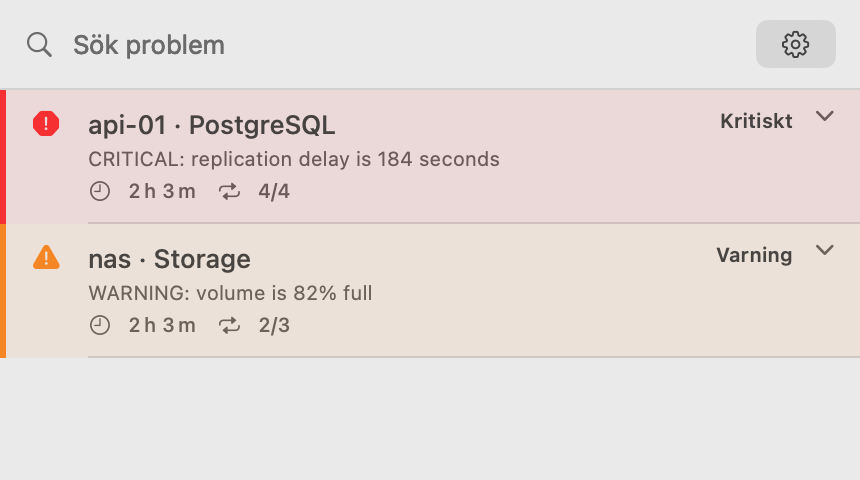
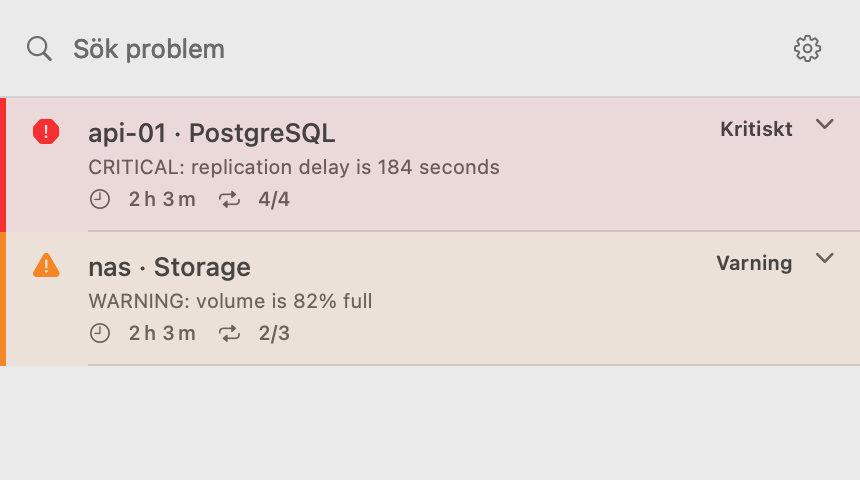
fix: repair native settings experience

diff --git a/IssueLight/Sources/LanguageSettingsView.swift b/IssueLight/Sources/LanguageSettingsView.swift
@@ -55,8 +55,8 @@ struct IssueLightSettingsView: View {
                 }
                 .tag(Tab.about)
         }
-        .padding(20)
-        .frame(width: 920, height: 680)
+        .padding(16)
+        .frame(width: 820, height: 600)
     }
 }
 
@@ -108,12 +108,19 @@ struct LanguageSettingsView: View {
 }
 
 struct AboutSettingsView: View {
+    private static let messages: [LocalizedStringResource] = [
+        "Alerts multiply. Attention does not.\nIssueLight sorts the signal before it reaches you.\nA star helps. Coffee keeps the beacon lit.",
+        "Green is a temporary agreement between distributed systems.\nIssueLight watches the fine print.\nStar it if it saved a minute. Fuel it if it saved the night.",
+        "The quiet menu bar is not doing nothing.\nIt is waiting for evidence.\nStar the repository if that restraint feels useful.",
+        "Monitoring should interrupt you only when it has something useful to say.\nIssueLight keeps the noise down and the problems visible.\nCoffee is optional. Reliable alerts are not.",
+    ]
+
     @Environment(\.locale) private var locale
     let icon: NSImage
     let version: String
     let build: String
     let copyrightText: String
-    private let messageKey: LocalizedStringResource
+    @State private var messageIndex: Int
 
     private let repositoryURL = URL(string: "https://github.com/YunaBraska/issuelight")!
     private let releasesURL = URL(string: "https://github.com/YunaBraska/issuelight/releases")!
@@ -138,69 +145,60 @@ struct AboutSettingsView: View {
         self.copyrightText = copyrightText
             ?? Bundle.main.object(forInfoDictionaryKey: "NSHumanReadableCopyright") as? String
             ?? "Copyright © 2026 Yuna Morgenstern and IssueLight contributors."
-        let messages: [LocalizedStringResource] = [
-            "Alerts multiply. Attention does not.\nIssueLight sorts the signal before it reaches you.\nA star helps. Coffee keeps the beacon lit.",
-            "Green is a temporary agreement between distributed systems.\nIssueLight watches the fine print.\nStar it if it saved a minute. Fuel it if it saved the night.",
-            "The quiet menu bar is not doing nothing.\nIt is waiting for evidence.\nStar the repository if that restraint feels useful.",
-            "Monitoring should interrupt you only when it has something useful to say.\nIssueLight keeps the noise down and the problems visible.\nCoffee is optional. Reliable alerts are not.",
-        ]
-        self.messageKey = messages[messageIndex.map { abs($0) % messages.count } ?? Int.random(in: messages.indices)]
+        _messageIndex = State(
+            initialValue: messageIndex.map { abs($0) % Self.messages.count }
+                ?? Int.random(in: Self.messages.indices)
+        )
     }
 
     var body: some View {
         ScrollView {
-            VStack(alignment: .leading, spacing: 20) {
-                HStack(spacing: 18) {
+            VStack(alignment: .leading, spacing: 18) {
+                HStack(spacing: 16) {
                     Image(nsImage: icon)
                         .resizable()
                         .interpolation(.high)
-                        .frame(width: 88, height: 88)
+                        .frame(width: 72, height: 72)
                         .accessibilityHidden(true)
 
-                    VStack(alignment: .leading, spacing: 5) {
+                    VStack(alignment: .leading, spacing: 4) {
                         Text(verbatim: "IssueLight")
-                            .font(.title.bold())
+                            .font(.title2.bold())
                         Text(verbatim: "\(AppLocalization.string("Version", locale: locale)) \(version) (\(build))")
-                            .font(.callout)
-                            .foregroundStyle(.secondary)
-                        Text(verbatim: "Yuna Morgenstern")
-                            .font(.callout)
-                        Text(verbatim: "Apache License 2.0")
                             .font(.caption)
                             .foregroundStyle(.secondary)
-                        Text(verbatim: AppLocalization.string("Monitoring without the noise.", locale: locale))
-                            .font(.callout.weight(.medium))
+                        Text(verbatim: "Yuna Morgenstern · Apache License 2.0")
+                            .font(.caption)
+                            .foregroundStyle(.secondary)
                     }
                 }
 
-                Text(verbatim: AppLocalization.string(messageKey, locale: locale))
+                Text(verbatim: AppLocalization.string(Self.messages[messageIndex], locale: locale))
                     .font(.callout)
                     .foregroundStyle(.secondary)
-                    .padding(14)
+                    .fixedSize(horizontal: false, vertical: true)
+                    .padding(.vertical, 2)
                     .frame(maxWidth: .infinity, alignment: .leading)
-                    .background(.quaternary, in: RoundedRectangle(cornerRadius: 12))
 
                 Divider()
 
-                settingsLinks
-
-                Divider()
-
-                supportLinks
+                links
 
                 Text(verbatim: copyrightText)
                     .font(.caption)
                     .foregroundStyle(.secondary)
                     .textSelection(.enabled)
             }
-            .frame(maxWidth: .infinity, alignment: .leading)
-            .padding(4)
+            .frame(maxWidth: 620, alignment: .leading)
+            .frame(maxWidth: .infinity, alignment: .center)
+            .padding(.horizontal, 8)
+            .padding(.vertical, 4)
         }
         .accessibilityIdentifier("about-settings")
     }
 
-    private var settingsLinks: some View {
-        LazyVGrid(columns: linkColumns, alignment: .leading, spacing: 10) {
+    private var links: some View {
+        LazyVGrid(columns: linkColumns, alignment: .leading, spacing: 12) {
             aboutLink("GitHub", systemImage: "chevron.left.forwardslash.chevron.right", destination: repositoryURL)
             aboutLink(
                 AppLocalization.string("Veröffentlichungen anzeigen …", locale: locale),
@@ -217,11 +215,6 @@ struct AboutSettingsView: View {
                 systemImage: "exclamationmark.bubble",
                 destination: issuesURL
             )
-        }
-    }
-
-    private var supportLinks: some View {
-        LazyVGrid(columns: linkColumns, alignment: .leading, spacing: 10) {
             aboutLink("GitHub Sponsors", systemImage: "heart", destination: sponsorsURL)
             aboutLink("Buy Me a Coffee", systemImage: "cup.and.saucer", destination: coffeeURL)
             aboutLink("Ko-fi", systemImage: "mug", destination: koFiURL)
@@ -237,8 +230,9 @@ struct AboutSettingsView: View {
                 Image(systemName: systemImage)
             }
             .frame(maxWidth: .infinity, alignment: .leading)
+            .padding(.vertical, 3)
         }
-        .buttonStyle(.bordered)
+        .buttonStyle(.link)
     }
 
     private var linkColumns: [GridItem] {

diff --git a/IssueLight/Sources/StatusMenuView.swift b/IssueLight/Sources/StatusMenuView.swift
@@ -46,6 +46,7 @@ struct MenuBarIssueCounts: Equatable {
 
 struct StatusMenuView: View {
     @ObservedObject var model: IssueLightModel
+    @Environment(\.openSettings) private var openSettings
     @State private var pendingAction: PendingIssueAction?
     @Environment(\.locale) private var locale
 
@@ -61,6 +62,10 @@ struct StatusMenuView: View {
             hasPartialRefreshFailure: model.hasPartialRefreshFailure,
             supportedActions: model.supportedActions,
             activeActionIssueIDs: model.activeActionIssueIDs,
+            openSettings: {
+                openSettings()
+                NSApp.activate()
+            },
             performRecheck: { issue in
                 Task { await model.perform(.recheck, on: issue) }
             },
@@ -108,6 +113,7 @@ struct StatusMenuContent: View {
     let hasPartialRefreshFailure: Bool
     let supportedActions: (MonitoringIssue) -> Set<MonitoringActionKind>
     let activeActionIssueIDs: Set<String>
+    let openSettings: () -> Void
     let performRecheck: (MonitoringIssue) -> Void
     let requestAcknowledgement: (MonitoringIssue) -> Void
     let requestDowntime: (MonitoringIssue) -> Void
@@ -131,11 +137,16 @@ struct StatusMenuContent: View {
                     ProgressView()
                         .controlSize(.small)
                 }
-                SettingsLink {
+                Button(action: openSettings) {
                     Image(systemName: "gearshape")
+                        .frame(width: 28, height: 28)
+                        .contentShape(Rectangle())
                 }
+                .buttonStyle(.borderless)
                 .labelStyle(.iconOnly)
                 .help(AppLocalization.string("Einstellungen …", locale: locale))
+                .accessibilityLabel(AppLocalization.string("Einstellungen …", locale: locale))
+                .accessibilityIdentifier("open-settings")
             }
             .padding(.horizontal, 12)
             .padding(.vertical, 10)
@@ -336,7 +347,7 @@ private struct StatusPanelIssueEntry: View {
                     Button(action: performRecheck) {
                         Label(
                             AppLocalization.string("Erneut prüfen", locale: locale),
-                            systemImage: "arrow.clockwise"
+                            systemImage: "play.circle"
                         )
                     }
                     .disabled(!actions.contains(.recheck))

diff --git a/IssueLight/Tests/NativeViewRenderer.swift b/IssueLight/Tests/NativeViewRenderer.swift
@@ -3,6 +3,49 @@ import SwiftUI
 
 @MainActor
 enum NativeViewRenderer {
+    static func click<Content: View>(
+        _ point: CGPoint,
+        in view: Content,
+        size: CGSize
+    ) {
+        let hostingController = NSHostingController(
+            rootView: view.frame(width: size.width, height: size.height)
+        )
+        let hostingView = hostingController.view
+        hostingView.frame = NSRect(origin: .zero, size: size)
+        hostingView.appearance = NSAppearance(named: .aqua)
+        let window = NSWindow(
+            contentRect: NSRect(origin: .zero, size: size),
+            styleMask: [.titled],
+            backing: .buffered,
+            defer: false
+        )
+        window.contentViewController = hostingController
+        window.setContentSize(size)
+        window.setFrameOrigin(NSPoint(x: -20_000, y: -20_000))
+        window.orderFrontRegardless()
+        window.makeKey()
+        RunLoop.main.run(until: Date(timeIntervalSinceNow: 0.25))
+        hostingView.layoutSubtreeIfNeeded()
+        for eventType in [NSEvent.EventType.leftMouseDown, .leftMouseUp] {
+            if let event = NSEvent.mouseEvent(
+                with: eventType,
+                location: point,
+                modifierFlags: [],
+                timestamp: ProcessInfo.processInfo.systemUptime,
+                windowNumber: window.windowNumber,
+                context: nil,
+                eventNumber: 0,
+                clickCount: 1,
+                pressure: eventType == .leftMouseDown ? 1 : 0
+            ) {
+                window.sendEvent(event)
+            }
+        }
+        RunLoop.main.run(until: Date(timeIntervalSinceNow: 0.1))
+        window.orderOut(nil)
+    }
+
     static func exerciseWindow<Content: View>(
         for view: Content,
         size: CGSize

diff --git a/IssueLight/Tests/StatusMenuInteractionTests.swift b/IssueLight/Tests/StatusMenuInteractionTests.swift
@@ -1,0 +1,36 @@
+import IssueLightCore
+import SwiftUI
+import XCTest
+
+@MainActor
+final class StatusMenuInteractionTests: XCTestCase {
+    func testSettingsButtonRespondsToPointerClick() {
+        var openedSettings = false
+        let view = StatusMenuContent(
+            hasConfiguredSource: false,
+            hasEnabledSource: false,
+            hasActiveSnapshot: false,
+            actionableIssues: [],
+            coveredIssues: [],
+            sourceNames: [:],
+            refreshState: .notConfigured,
+            hasPartialRefreshFailure: false,
+            supportedActions: { _ in [] },
+            activeActionIssueIDs: [],
+            openSettings: { openedSettings = true },
+            performRecheck: { _ in },
+            requestAcknowledgement: { _ in },
+            requestDowntime: { _ in }
+        )
+        .environment(\.locale, Locale(identifier: "de_DE"))
+        .environment(\.colorScheme, .light)
+
+        NativeViewRenderer.click(
+            CGPoint(x: 404, y: 234),
+            in: view,
+            size: CGSize(width: 430, height: 260)
+        )
+
+        XCTAssertTrue(openedSettings)
+    }
+}

diff --git a/IssueLight/Tests/LandingPageScreenshotTests.swift b/IssueLight/Tests/LandingPageScreenshotTests.swift
@@ -8,7 +8,7 @@ final class LandingPageScreenshotTests: XCTestCase {
     func testLandingPageScreenshotsRenderFromProductionViews() throws {
         let sourceData = try NativeViewRenderer.pngData(
             for: sourceSetupView,
-            size: CGSize(width: 920, height: 680)
+            size: CGSize(width: 820, height: 600)
         )
         let menuItemData = try NativeViewRenderer.pngData(
             for: menuItemStatesView,
@@ -191,6 +191,7 @@ final class LandingPageScreenshotTests: XCTestCase {
                 hasPartialRefreshFailure: false,
                 supportedActions: { _ in [.recheck, .acknowledge, .scheduleDowntime] },
                 activeActionIssueIDs: [],
+                openSettings: {},
                 performRecheck: { _ in },
                 requestAcknowledgement: { _ in },
                 requestDowntime: { _ in }

diff --git a/IssueLight/Tests/StatusMenuPerformanceTests.swift b/IssueLight/Tests/StatusMenuPerformanceTests.swift
@@ -42,6 +42,7 @@ final class StatusMenuPerformanceTests: XCTestCase {
             hasPartialRefreshFailure: false,
             supportedActions: { _ in [.recheck, .acknowledge, .scheduleDowntime] },
             activeActionIssueIDs: [],
+            openSettings: {},
             performRecheck: { _ in },
             requestAcknowledgement: { _ in },
             requestDowntime: { _ in }

diff --git a/IssueLight/Sources/SourceSetupView.swift b/IssueLight/Sources/SourceSetupView.swift
@@ -61,7 +61,7 @@ struct SourceSetupView: View {
                         : model.name
                 )
         }
-        .frame(minWidth: 780, minHeight: 600)
+        .frame(minWidth: 700, minHeight: 500)
         .onDisappear {
             connectionTask?.cancel()
             Task { _ = await model.cleanupUnreferencedManagedServerCertificates() }

diff --git a/docs/DEVELOPMENT.md b/docs/DEVELOPMENT.md
@@ -30,10 +30,13 @@ configuration.
 
 ## Protected mTLS acceptance
 
-Use a separate macOS review account and the lab identity. In Keychain Access,
-open the imported identity's private key and set Access Control to require
-confirmation without adding IssueLight to the always-allowed applications.
-Install the stable signed app, configure the mTLS source, and run these checks:
+Use a separate macOS review profile when one is available. For this acceptance
+case only, open the lab identity's private key in Keychain Access, require
+confirmation, and do not choose **Always Allow**. This preserves the prompt so
+the approve and deny paths remain repeatable. It is not a recommendation for
+normal use; a user may choose **Always Allow** to add the signed app to that
+item's trusted-app list. Install the stable signed app, configure the mTLS
+source, and run these checks:
 
 1. Start **Test Connection** and approve the macOS prompt. The test must pass.
 2. Leave Settings and wait for background refresh. No prompt may appear. The

diff --git a/docs/site/index.md b/docs/site/index.md
@@ -66,7 +66,7 @@ description: IssueLight keeps Icinga 2 problems in the macOS menu bar and stays 
 <section class="section shell security-section">
   <figure class="setup-shot app-window">
     <div class="window-bar"><span></span><span></span><span></span><strong>Source setup</strong></div>
-    <img src="{{ '/assets/screenshots/source-setup.png' | relative_url }}" alt="IssueLight source setup with Icinga 2 endpoint, Basic authentication and strict macOS system trust" width="1840" height="1360">
+    <img src="{{ '/assets/screenshots/source-setup.png' | relative_url }}" alt="IssueLight source setup with Icinga 2 endpoint, Basic authentication and strict macOS system trust" width="1640" height="1200">
   </figure>
   <div class="security-copy">
     <p class="eyebrow"><span></span>Secure by default</p>
